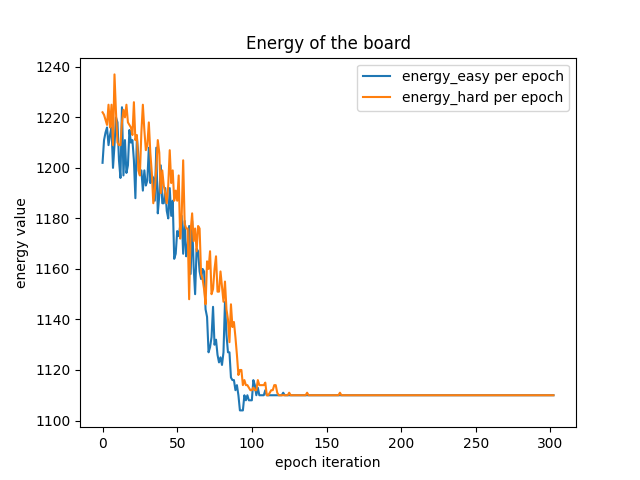
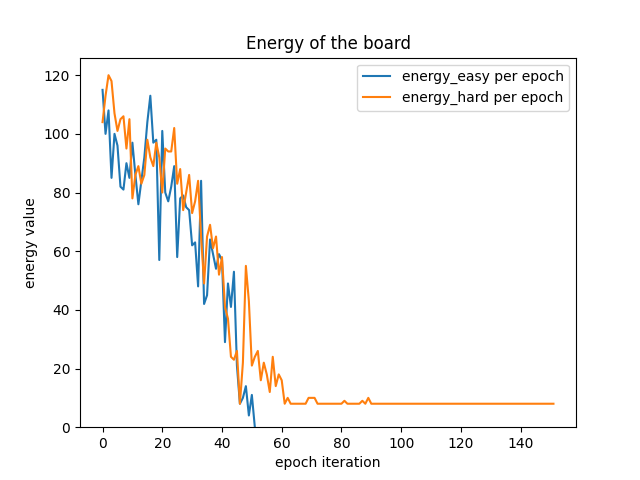
final

diff --git a/sudoku_annealing.py b/sudoku_annealing.py
@@ -1,3 +1,5 @@
+from math import exp
+import random
 import time
 import numpy as np
 from itertools import repeat, product
@@ -14,17 +16,18 @@ class SudokuAnnealing:
         self._guesses = np.argwhere(mask)  # get the indices of the cells with randomly guessed values
         self.board[mask] = np.random.randint(1, 10, size=np.count_nonzero(mask))  # assign random values to the cells
         self._energy = self._global_energy()  # get the global energy of the board
-        self._temperature = 0.25  # initialize the inverse temperature
-        self._cooling_rate = 2e-2  # initialize the cooling rate
+        self._temperature = 0.5  # initialize the inverse temperature
+        self._cooling_rate = 0.02  # initialize the cooling rate
 
     def solve(self):
         energies = []  # list to store the energy
-        while self._temperature < 1e2:  # while the temperature is less than 1e2 run epoch
+        while self._temperature < 10:  # while the temperature is less than max temperature
             start_time = time.perf_counter()  # get the start time
-            for _ in repeat(None, 1000):  # repeat 1000 times
+            for _ in repeat(None, 5000):  # repeat for iterations per temperature level
                 self._metropolis()  # run the metropolis algorithm
             # append the time taken to solve the board
             self.exec_time.append((time.perf_counter() + self.exec_time[-1] - start_time))
+            self._energy = self._global_energy()  # get the global energy of the board
             energies.append(self._energy)  # append the energy
             if self._energy <= 0:  # if the energy is zero
                 break  # break the loop
@@ -44,19 +47,19 @@ class SudokuAnnealing:
 
     def _global_energy(self):  # calculate the global energy of the board
         energy = 0  # initialize the energy
-        for row, col in product(range(9), repeat=2):
-            energy += self._local_energy(row, col)  # add the local energy of the cell
+        cols = [0, 3, 6, 1, 4, 7, 2, 5, 8]  # list to store the columns
+        for i in range(9):  # iterate over all the rows
+            energy += self._local_energy(i, cols[i])  # add the local energy of the cell
         return energy  # return the energy
 
     def _metropolis(self):
-        row, col = self._guesses[np.random.randint(0, len(self._guesses))]  # get a random cell
+        row, col = random.choice(self._guesses)  # get a random cell
         old_energy = self._local_energy(row, col)  # get the local energy of the cell
         old_value = self.board[row, col]  # get the old value of the cell
         self.board[row, col] = np.random.randint(1, 10)  # assign a random value to the cell
         delta_energy = self._local_energy(row, col) - old_energy  # get the change in energy
         # if the change in energy is negative or the probability is less than the threshold
-        if delta_energy < 0 or np.random.rand() < np.exp(-self._temperature * delta_energy):
-            self._energy += delta_energy  # update the global energy
+        if delta_energy < 0 or random.uniform(0.0, 1.0) < exp(-self._temperature * delta_energy):
             return
         else:
             self.board[row, col] = old_value  # revert the change

diff --git a/main.py b/main.py
@@ -75,6 +75,7 @@ if __name__ == '__main__':
     plt.figure()
     plt.plot(energies_easy, label='energy_easy per epoch')
     plt.plot(energies_hard, label='energy_hard per epoch')
+    plt.ylim(bottom=0)
     plt.title('Energy of the board')
     plt.xlabel('epoch iteration')
     plt.ylabel('energy value')
